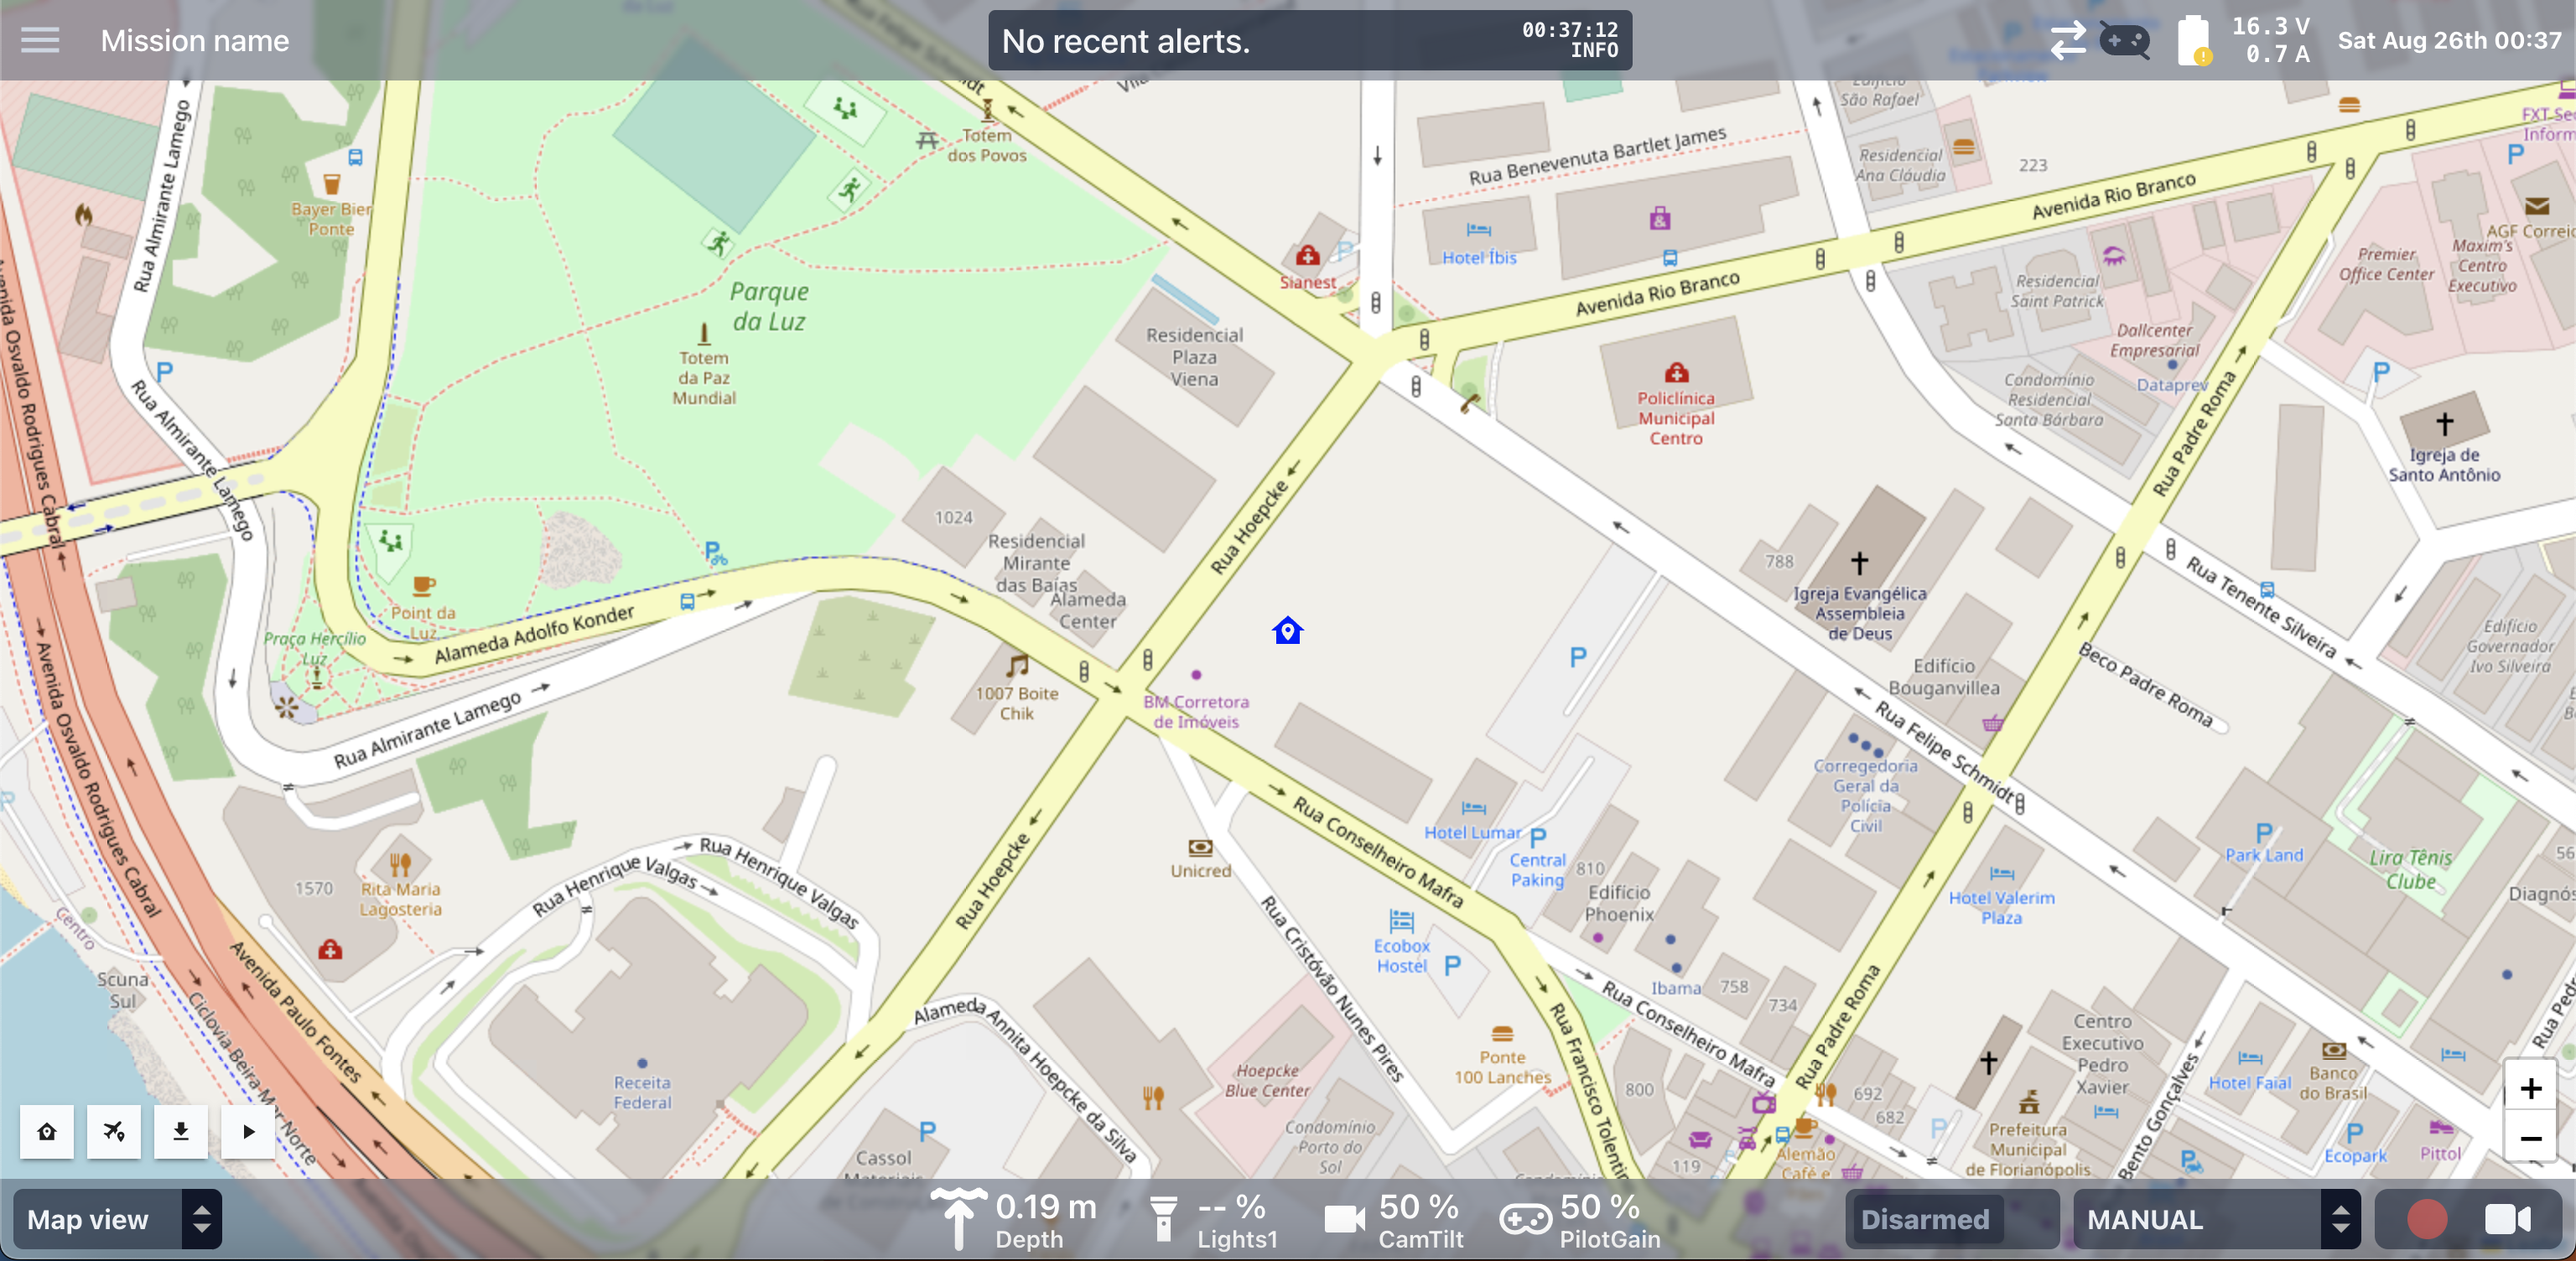
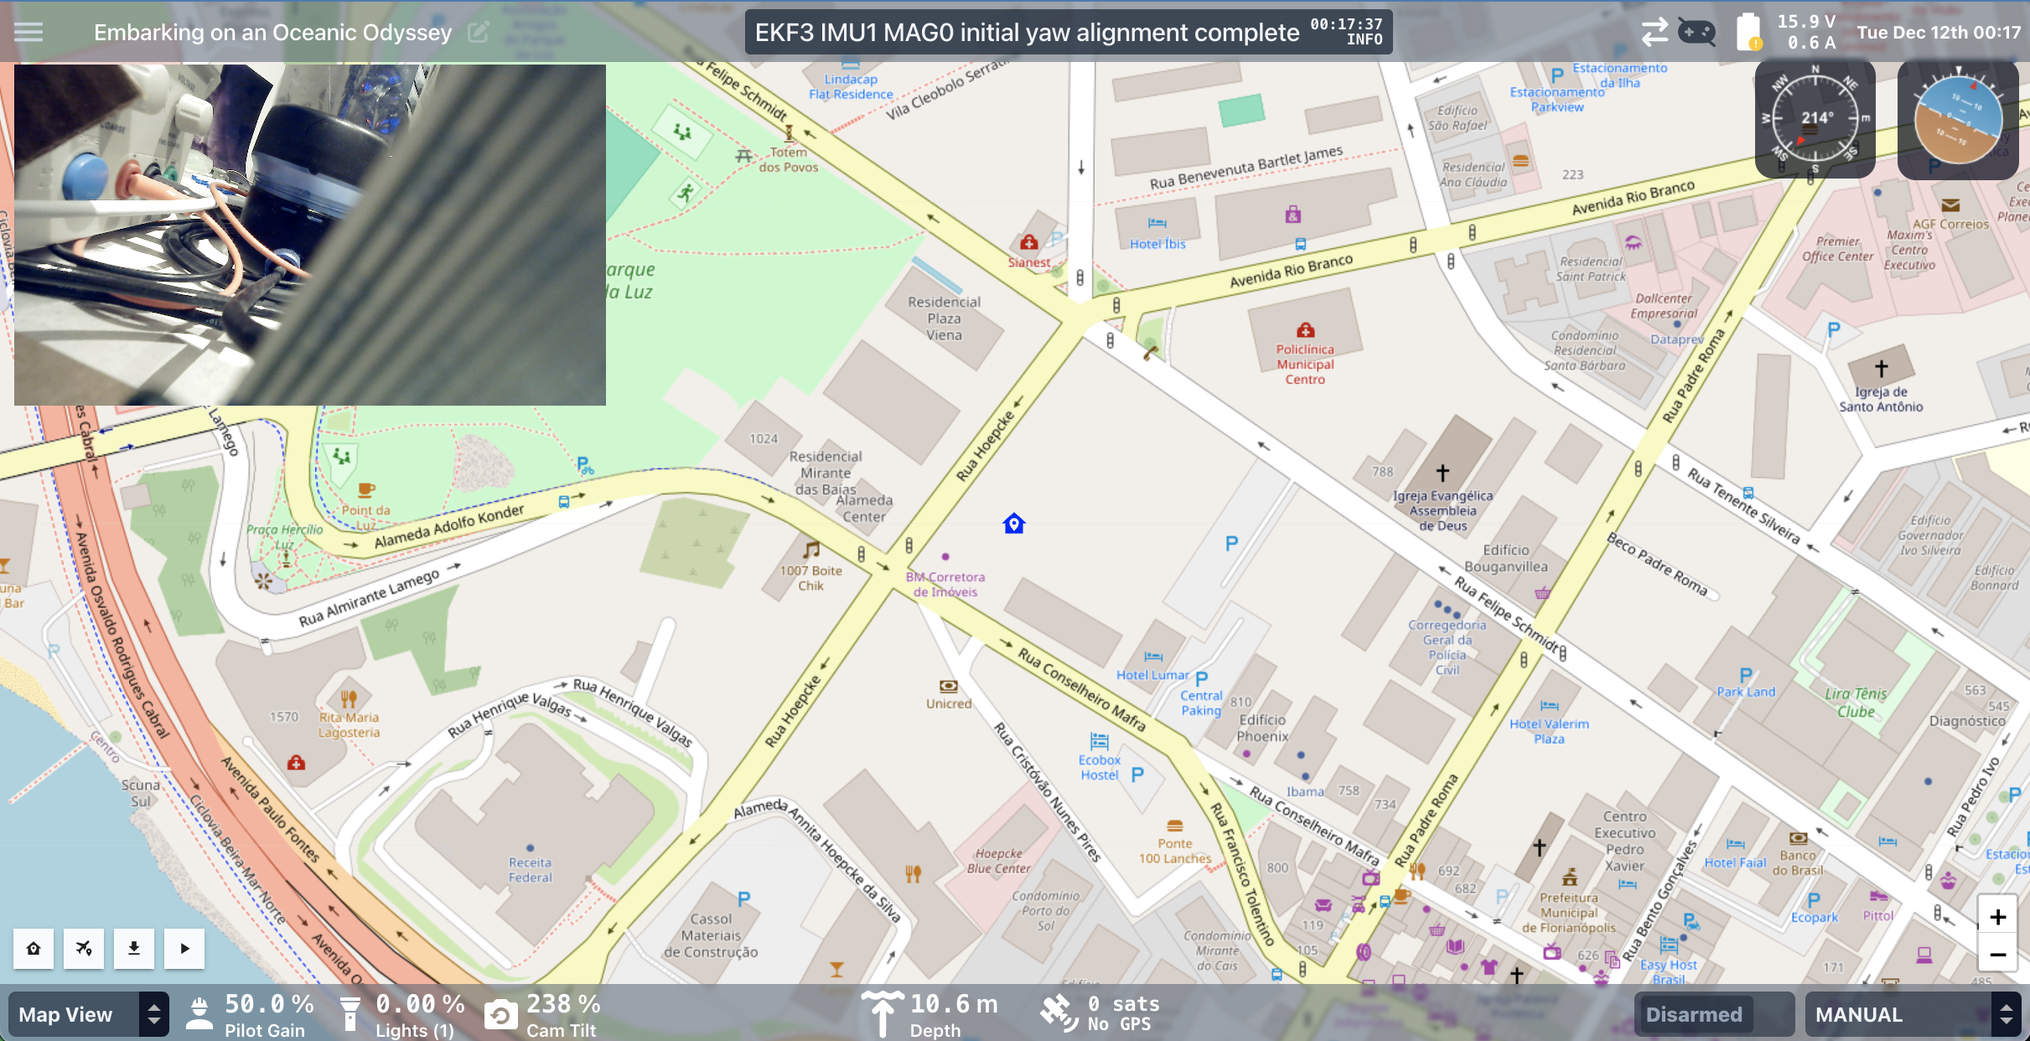
getting-started: update default views and joystick config
Documents bluerobotics/cockpit#593

diff --git a/getting-started/index.md b/getting-started/index.md
@@ -1,7 +1,7 @@
 +++
 title = "Getting Started"
 description = "Cockpit getting started instructions."
-date = 2023-08-25T13:00:00+11:00
+date = 2023-12-12T22:20:00+11:00
 template = "docs/page.html"
 sort_by = "weight"
 weight = 20
@@ -28,24 +28,27 @@ To access the configuration section, open the burger menu in the top left, and s
 ## Interface Setup
 
 ### Visual Display
-By default, the interface of Cockpit is set up with two [views](../advanced-usage/#display-views):
+By default, the interface of Cockpit is set up with three [views](../advanced-usage/#views):
 1. Video view
-    - Includes a video stream, vehicle telemetry, heads-up display (HUD) overlay elements, status updates, and flight mode selection
-    - Most useful for first-person control of a vehicle like an ROV, copter, or plane
+    - Includes a video stream, vehicle telemetry, compass and attitude instrument indicators, status updates, and flight mode selection
+    - Useful for first-person control of a vehicle like an ROV, copter, or plane, focused on what the vehicle can see
 
 {{ easy_image(src="video-view", width=600, center=true) }}
 
-2. Map view
+2. HUD view
+    - Includes a video stream, vehicle telemetry, heads-up display (HUD) overlay elements, status updates, and flight mode selection
+    - An alternative for first-person control of a vehicle like an ROV, copter, or plane, focused on precision maneuvering
+
+{{ easy_image(src="hud-view", width=600, center=true) }}
+
+3. Map view
     - Includes a map, vehicle telemetry, status updates, and flight mode selection
     - Most useful for mission planning and remote monitoring of vehicles with a positioning system and/or autonomous control
 
 {{ easy_image(src="map-view", width=600, center=true) }}
 
-Primary widgets that support configuration can be configured by clicking on the icon in their top right corner. Mini-widgets can be
-configured by clicking anywhere on the widget.
-
-The available views (including widget size and placement) can be configured as described in the
-[advanced usage documentation](../advanced-usage/#display-views).
+The available views and the widgets within them (including sizing and placement) can be configured as described in the
+[advanced usage documentation](../advanced-usage/#edit-mode).
 
 ### Joystick Configuration
 For vehicles controlled via a joystick, button and axis mappings can be set by clicking the burger menu (top left), then selecting
